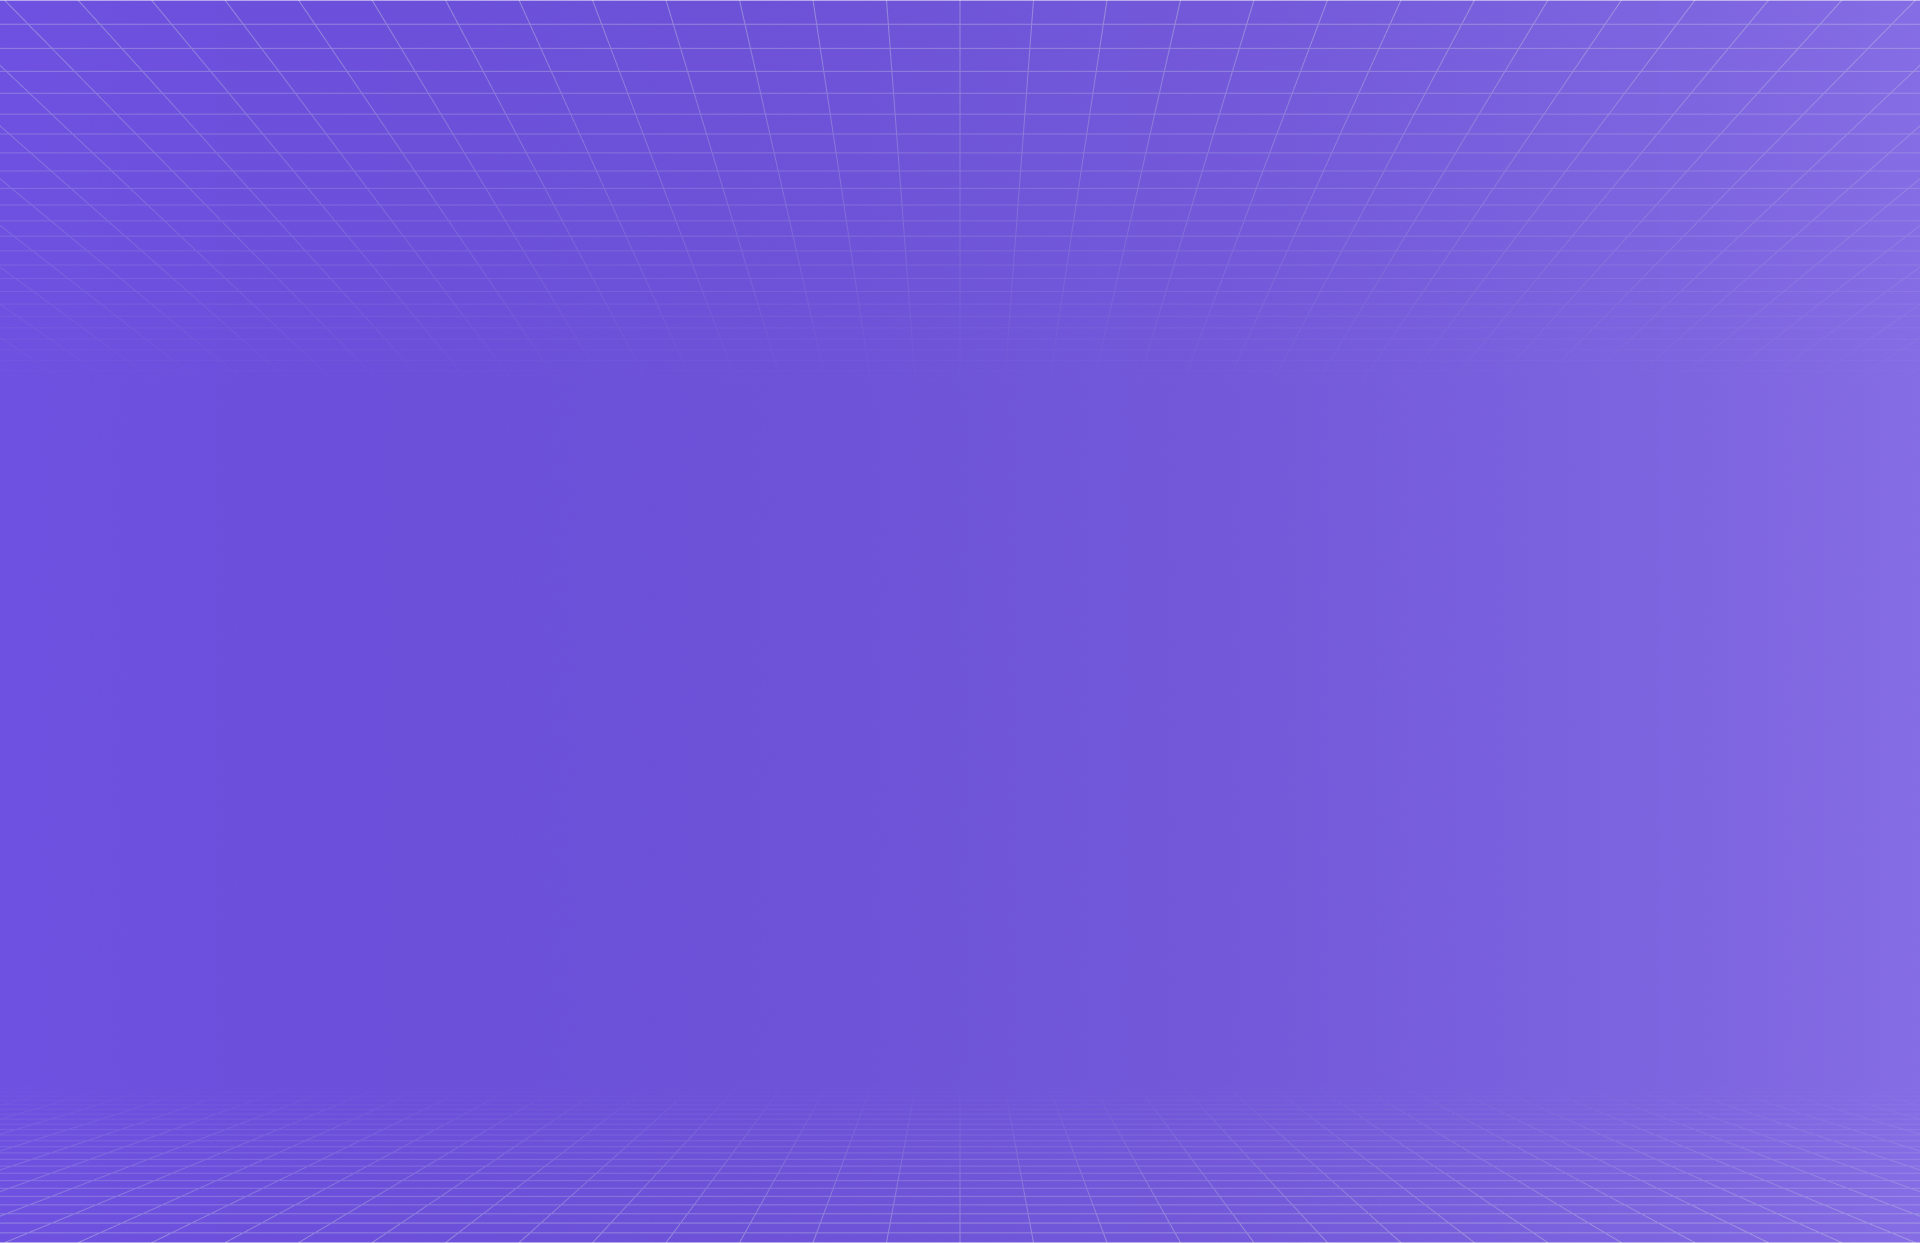
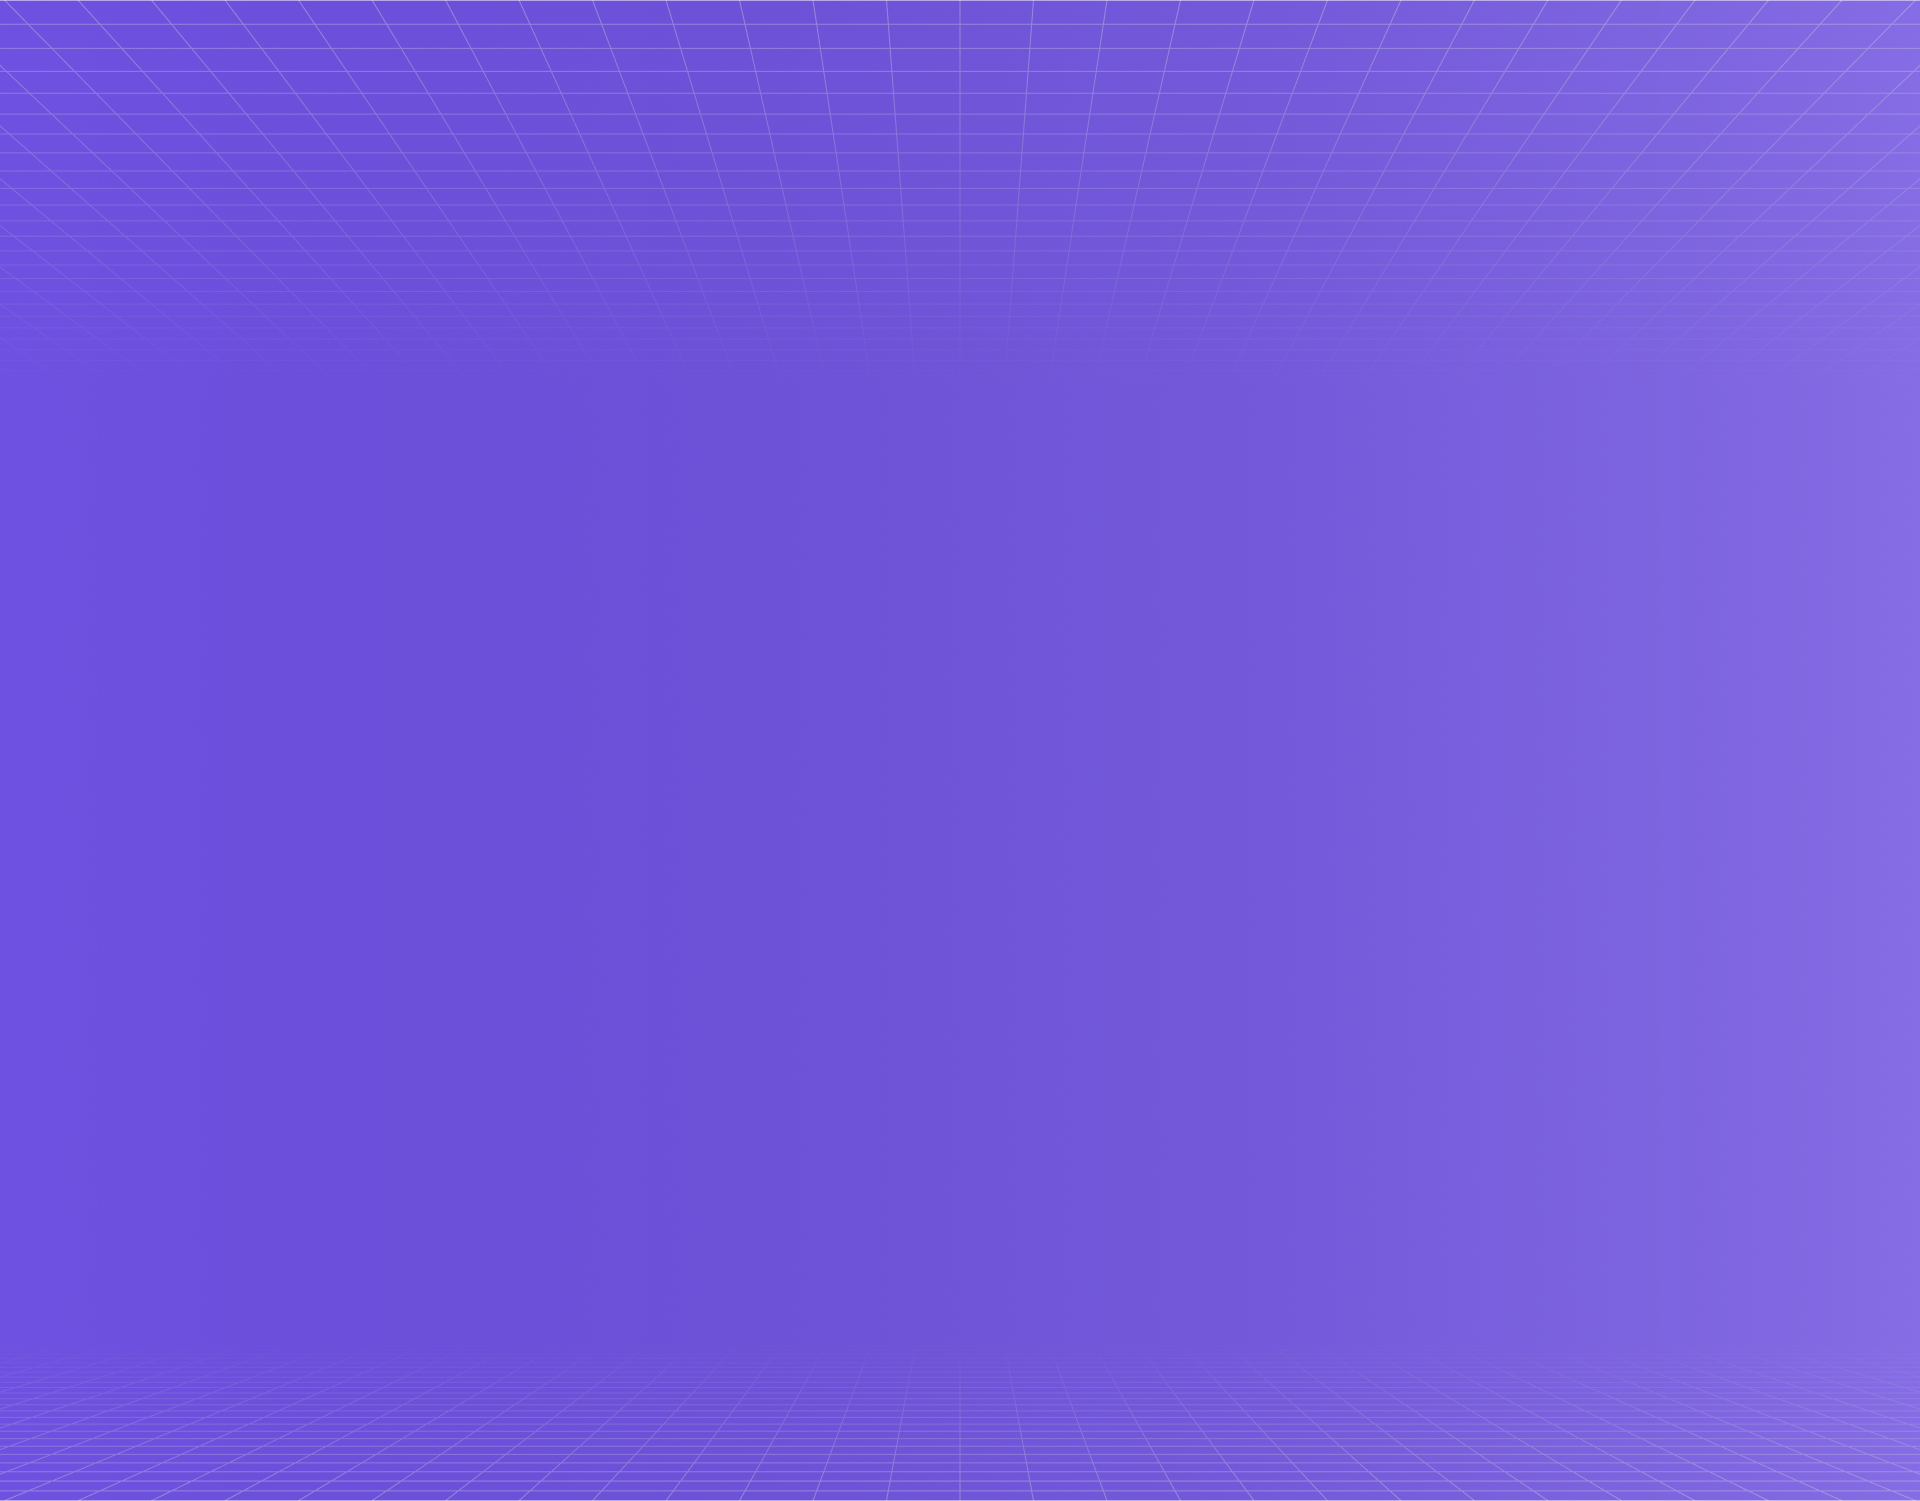
responsive complete

Changed region(s): [[0.0, 0.9477, 0.875, 1.0]]

diff --git a/src/Components/Home/Faq.jsx b/src/Components/Home/Faq.jsx
@@ -1,10 +1,22 @@
-import React from 'react'
+import React, { useState } from 'react'
 import SectionHeader from './SectionHeader'
 import FaqAccordion from './FaqAccordion'
+import faqBackground from '../../assets/faq-background.png'
 
 const Faq = () => {
+    const [isOpen, setIsOpen] = useState(false);
+    const [selectedOption, setSelectedOption] = useState('Basics');
+
+    const toggleDropdown = () => {
+        setIsOpen(!isOpen);
+    };
+
+    const selectOption = (option) => {
+        setSelectedOption(option);
+        setIsOpen(false);
+    };
     return (
-        <section className='faq py-8 md:py-32 bg-dark'>
+        <section className='faq py-8 md:py-32 bg-dark' style={{ backgroundImage: `url(${faqBackground})`, backgroundRepeat: "no-repeat"}}>
             <div className="container px-5">
                 <SectionHeader
                     sectionTag={"RETracker FAQ’s"}
@@ -17,7 +29,7 @@ const Faq = () => {
                 />
 
                 <div className="btn_wrapper flex justify-center mb-8">
-                    <div className='bg-btnGroup p-2 rounded-full inline-block'>
+                    <div className='bg-btnGroup p-2 rounded-full hidden md:inline-block '>
                         <button className='text-white py-2 px-4 btnGradientClr rounded-full'>
                             Basics
                         </button>
@@ -39,6 +51,54 @@ const Faq = () => {
                         </button>
 
                     </div>
+
+                    <div className='bg-btnGroup p-2 rounded-full inline-block md:hidden'>
+                        <div className="relative inline-block text-left ">
+                            <div className=' btnGradientClr rounded-full'>
+                                <button
+                                    type="button"
+                                    onClick={toggleDropdown}
+                                    className={`w-[320px] flex justify-between items-center py-2 px-4 ${isOpen ? 'text-white' : 'text-white'}`}
+                                >
+                                    <div className='selectedItem'>
+                                        {selectedOption}
+                                    </div>
+                                    <div className='toggoleBtn'>
+                                        <svg className={`-mr-1 ml-2 h-5 w-5 ${isOpen ? '' : 'transform rotate-180'}`} xmlns="http://www.w3.org/2000/svg" viewBox="0 0 20 20" fill="currentColor">
+                                            <path fillRule="evenodd" d="M10 3a1 1 0 01.707.293l7 7a1 1 0 01-1.414 1.414L10 5.414 3.707 11.707a1 1 0 01-1.414-1.414l7-7A1 1 0 0110 3z" clipRule="evenodd" />
+                                        </svg>
+                                    </div>
+                                </button>
+                            </div>
+
+                            {isOpen && (
+                                <div className="origin-top-right absolute right-0 mt-2 rounded-md shadow-lg bg-white ring-1 ring-black ring-opacity-5">
+                                    <div className="w-[320px] py-1">
+                                        <button
+                                            onClick={() => selectOption('Basics')}
+                                            className={` px-4 py-2 text-sm w-full`}
+                                        >
+                                            Basics
+                                        </button>
+                                        <button
+                                            onClick={() => selectOption('Option 1')}
+                                            className={` px-4 py-2 text-sm w-full`}
+                                        >
+                                            Option 1
+                                        </button>
+                                        <button
+                                            onClick={() => selectOption('Option 2')}
+                                            className={` px-4 py-2 text-sm  w-full`}
+                                        >
+                                            Option 2
+                                        </button>
+                                    </div>
+                                </div>
+                            )}
+                        </div>
+                    </div>
+
+
                 </div>
 
                 <FaqAccordion />

diff --git a/src/Components/Home/Pricing.jsx b/src/Components/Home/Pricing.jsx
@@ -8,9 +8,8 @@ const Pricing = () => {
     const [subTime, setSubTime] = useState('monthly');
 
     const handleSubtime = (option) => {
-        setSubTime(option)
-    }
-
+        setSubTime(option);
+    };
     return (
         <section className='pricing py-7 md:py-32 bg-drakWhite'>
             <div className="container px-5">
@@ -25,25 +24,34 @@ const Pricing = () => {
                 />
 
                 <div className="subcription_type flex justify-center mb-10">
-                    <div className="btn_wrapper border border-slate-200 flex p-2 rounded-full w-full md:w-[20%]">
+                    <div className="btn_wrapper border border-slate-200 flex p-2 rounded-full w-full lg:w-[20%]">
 
-                        {/* <div> */}
-                        <button className='py-4 px-4 w-full bg-lightPrimary rounded-full text-primary text-base font-bold'>
+                        <button
+                            className={`py-2 px-4 w-full rounded-full ${subTime === 'monthly'
+                                ? 'bg-lightPrimary text-primary font-bold'
+                                : 'text-base font-bold'
+                                }`}
+                            onClick={() => handleSubtime('monthly')}
+                        >
                             Monthly
                         </button>
-                        {/* </div> */}
 
-                        {/* <div> */}
-                        <button className='py-4 px-4 w-full text-base font-bold'>
+                        <button
+                            className={`py-2 px-4 w-full rounded-full ${subTime === 'yearly'
+                                ? 'bg-lightPrimary text-primary font-bold'
+                                : 'text-base font-bold'
+                                }`}
+                            onClick={() => handleSubtime('yearly')}
+                        >
                             Yearly
                         </button>
-                        {/* </div> */}
+
 
                     </div>
                 </div>
 
                 <div className='flex justify-center md:pb-16'>
-                    <div class="grid grid-cols-12 md:flex gap-8 items-center">
+                    <div class="grid grid-cols-12 md:flex md:gap-8 items-center">
                         <div class="col-span-12 md:col-span-4">
                             <PricingCard
                                 planType={"Basic Plan"}
@@ -58,7 +66,7 @@ const Pricing = () => {
                             />
                         </div>
                         <div class="col-span-12 md:col-span-4">
-                            <div className='pricing-card max-w-[405px] h-full'>
+                            <div className='pricing-card max-w-[405px] h-full mb-5 md:mb-0'>
                                 <div className='h-full flex flex-col justify-between bg-white p-2 rounded-2xl'>
                                     <div className="card_content bg-white rounded-2xl border-2 border-primary">
                                         <h2 className='py-4 text-center bg-primary text-white text-xs rounded-t-xl'>

diff --git a/src/Components/Home/PowerFeatures.jsx b/src/Components/Home/PowerFeatures.jsx
@@ -30,8 +30,9 @@ const PowerFeatures = () => {
       <div className="container px-5">
         <div className="card flex justify-center">
           <div className="power_features_wrapper max-w-twelveEighty">
-            <div className="grid grid-cols-12 gap-8">
-              <div className="col-span-12 md:col-span-4">
+            <div className="grid grid-cols-12 md:gap-8 gap-4">
+
+              <div className="col-span-12 sm:col-span-6  lg:col-span-4">
                 <PowerFeaturesCard
                   cardImg={cardImg1}
                   cardTitle={"Intuitive Dashboard"}
@@ -42,7 +43,7 @@ const PowerFeatures = () => {
                 />
               </div>
 
-              <div className="col-span-12 md:col-span-4">
+              <div className="col-span-12 sm:col-span-6  lg:col-span-4">
                 <PowerFeaturesCard
                   cardImg={cardImg2}
                   cardTitle={"Property Management"}
@@ -53,7 +54,7 @@ const PowerFeatures = () => {
                 />
               </div>
 
-              <div className="col-span-12 md:col-span-4">
+              <div className="col-span-12 sm:col-span-6  lg:col-span-4">
                 <PowerFeaturesCard
                   cardImg={cardImg3}
                   cardTitle={"Calendar View"}
@@ -64,7 +65,7 @@ const PowerFeatures = () => {
                 />
               </div>
 
-              <div className="col-span-12 md:col-span-4">
+              <div className="col-span-12 sm:col-span-6  lg:col-span-4">
                 <PowerFeaturesCard
                   cardImg={cardImg4}
                   cardTitle={"Customizable Categories"}
@@ -75,7 +76,7 @@ const PowerFeatures = () => {
                 />
               </div>
 
-              <div className="col-span-12 md:col-span-4">
+              <div className="col-span-12 sm:col-span-6  lg:col-span-4">
                 <PowerFeaturesCard
                   cardImg={cardImg5}
                   cardTitle={"Smart Analytics"}
@@ -86,7 +87,7 @@ const PowerFeatures = () => {
                 />
               </div>
 
-              <div className="col-span-12 md:col-span-4">
+              <div className="col-span-12 sm:col-span-6  lg:col-span-4">
                 <PowerFeaturesCard
                   cardImg={cardImg6}
                   cardTitle={"Collaborate Seamlessly"}

diff --git a/src/Components/Home/TestimonialCard.jsx b/src/Components/Home/TestimonialCard.jsx
@@ -11,11 +11,11 @@ const TestimonialCard = ({
   cardTitle,
 }) => {
   return (
-    <div className="col-span-12 md:col-span-4">
-      {/* max-w-[320px] bg-white rounded-2xl md:card_wrapper md:max-w-[405px] w-full */}
-      <div className="tesimonial-card ">
-        <div className="card_border h-full flex flex-col justify-between">
-          <div className="card_content">
+    <div className="col-span-12 sm:col-span-6 lg:col-span-4">
+
+      <div className="tesimonial-card max-w-[320px] p-2 bg-white rounded-2xl md:card_wrapper md:mb-0 md:max-w-[405px] w-full md:h-full">
+        <div className="border rounded-2xl p-4 md:card_border h-full flex flex-col justify-between">
+          <div className="card_content pb-4 md:pb-10">
             <div className="card_title">
               <h2 className="text-lg font-medium text-slate-black pb-1">
                 {cardTitle}

diff --git a/src/Shared/Footer.jsx b/src/Shared/Footer.jsx
@@ -33,11 +33,11 @@ const Footer = () => {
                 socialIcons.map((data, index) => (
                   <div
                     key={index}
-                    className="border border-primary rounded-full h-10 w-10 flex justify-center items-center transition duration-600 ease-in-out hover:bg-primary"
+                    className="border border-primary rounded-full text-primary text-2xl hover:text-white h-10 w-10 flex justify-center items-center transition duration-600 ease-in-out hover:bg-primary"
                   >
                     <Link
                       target="_blank"
-                      className="text-primary text-2xl transition duration-600 ease-in-out hover:text-white"
+                      className=""
                       to={data.link}
                     >
                       {data.pic}

diff --git a/src/Components/Home/PricingCard.jsx b/src/Components/Home/PricingCard.jsx
@@ -5,7 +5,7 @@ import MarkIcon2 from '../../assets/mark2.png'
 const PricingCard = ({ planType, planDetails, subType, featuresOne, featuresTwo, featuresThree, featuresFour, featuresFive, subBtn, sub_time }) => {
     return (
 
-        <div className='pricing-card max-w-[405px] h-full'>
+        <div className='pricing-card max-w-[405px] h-full mb-5 md:mb-0'>
             <div className=' h-full flex flex-col justify-between'>
                 <div className="card_content bg-white rounded-2xl p-2">
                     <div className="pricing_card_type border p-8 rounded-t-2xl">

diff --git a/src/Components/Home/PowerFeaturesCard.jsx b/src/Components/Home/PowerFeaturesCard.jsx
@@ -3,7 +3,7 @@ import React from 'react'
 
 const PowerFeaturesCard = ({ cardTitle, cardContent, bgColor, cardImg }) => {
     return (
-        <div className='max-w-[405px] mb-8 md:mb-0'>
+        <div className='max-w-[320px] md:max-w-[405px]'>
             <div className="card_img mb-8">
                 <img className='w-full' src={cardImg} alt="card-img" />
             </div>

diff --git a/src/Components/Home/Testimonal.jsx b/src/Components/Home/Testimonal.jsx
@@ -29,7 +29,7 @@ const Testimonal = () => {
         />
 
         <div className="flex justify-center pb-7 md:pb-16">
-          <div className="grid grid-cols-12 md:gap-8">
+          <div className="grid grid-cols-12 md:gap-8 gap-4">
             <TestimonialCard
               cardTitle={"Seamless interface"}
               cardDes={
